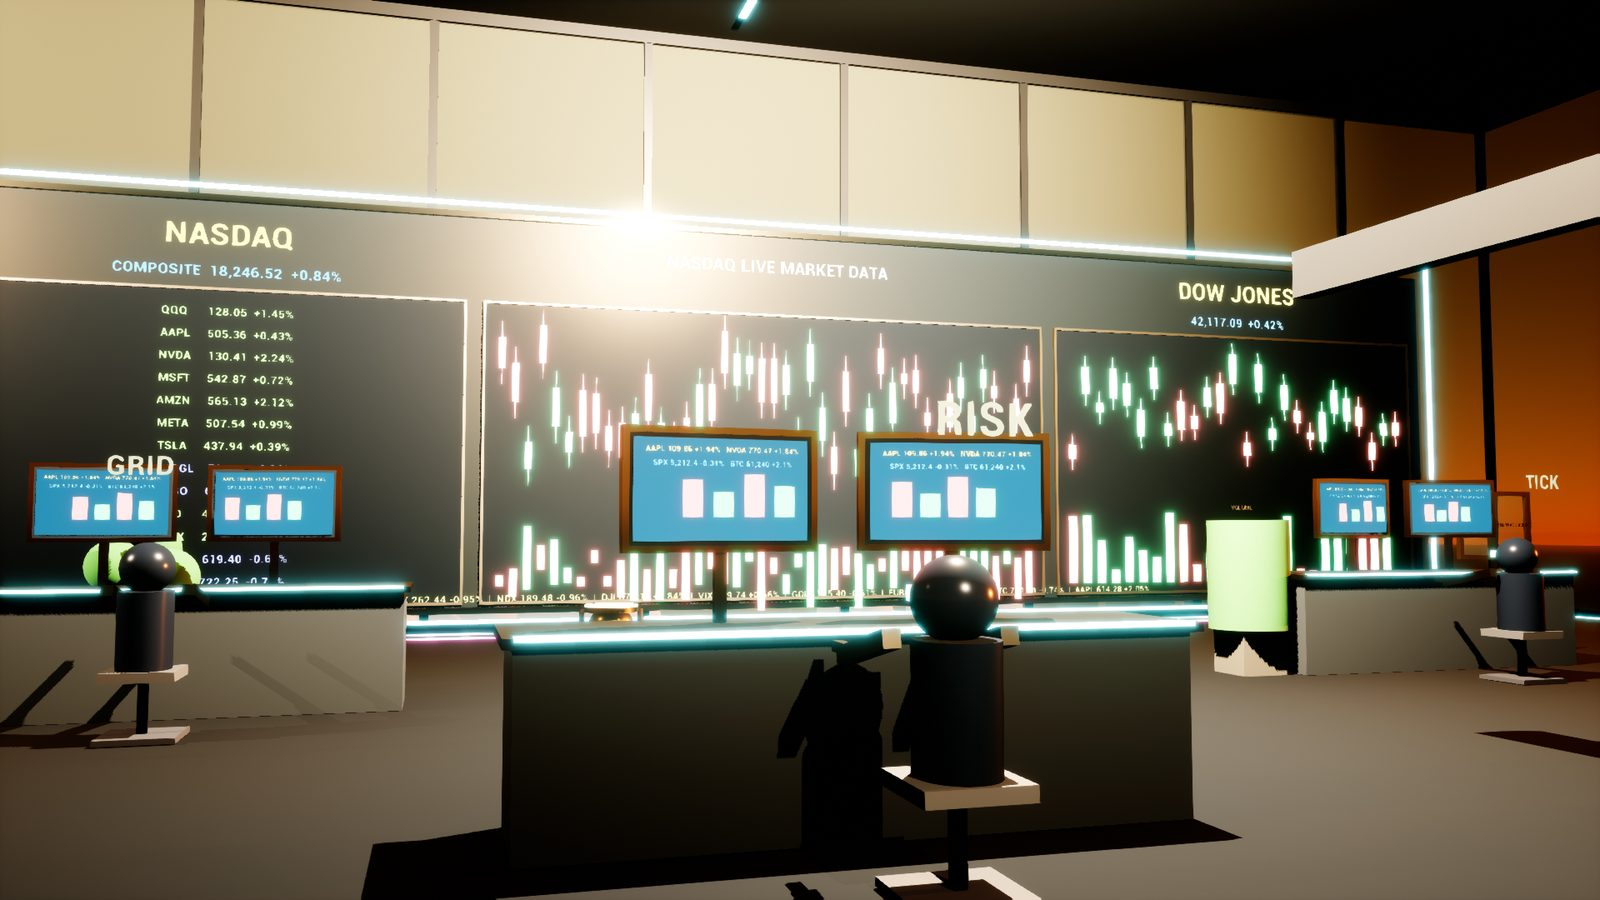
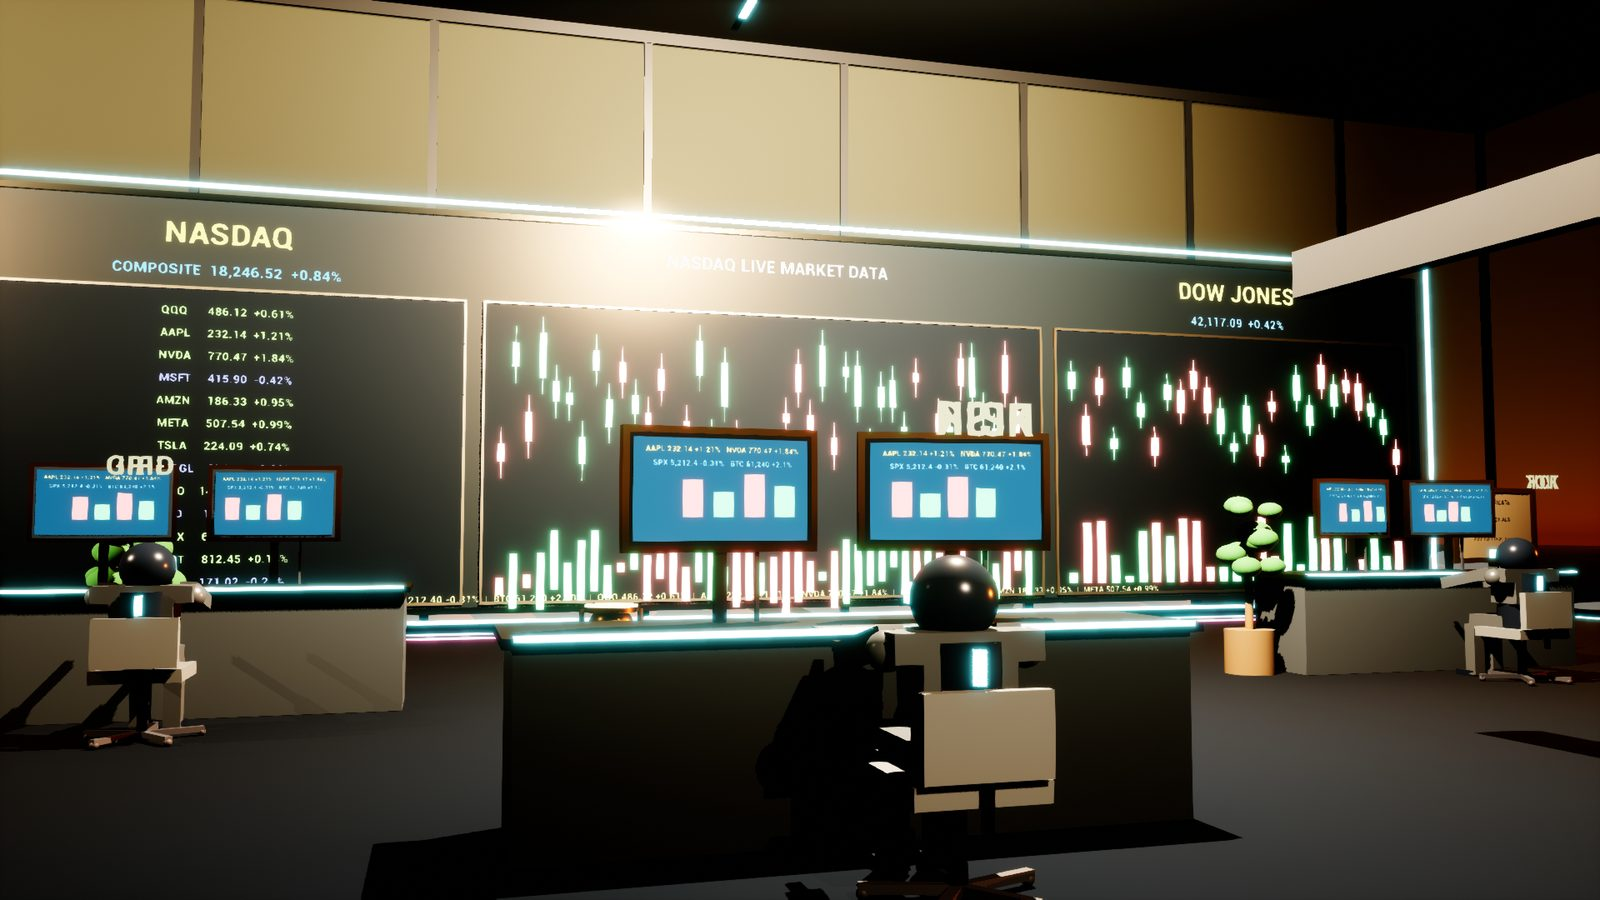
world: Unreal gallery carries the pass 26 set (eight stills)
Replaces the five pass 19 stills with eight pass 26 renders, approved in
full by Luxor's inspection ("eight pass, replace approved in full"): wide,
trading wall, crew, sign, sign close-up, deck, desk screen, corner. Label
updated to "pass 26, build in progress"; the honesty line is unchanged.

Captions claim only what the stills show: "market candles", not "live"
(a still cannot prove the data is live), and no claim about the crew's
faces (the crew still is from behind).

diff --git a/world/index.html b/world/index.html
@@ -120,8 +120,8 @@
         width:auto; height:auto; max-width:88vw; max-height:72vh; }
       #mapClose{ margin-top:10px; appearance:none; cursor:pointer; border:1px solid rgba(255,201,77,.55); border-radius:999px;
         background:rgba(8,16,34,.85); color:#ffd97a; font-size:12px; font-weight:800; letter-spacing:.1em; padding:9px 20px; }
-      /* Unreal Engine gallery (2026-10-20): renders of the PC build, opened from the entry card. Inspected and passed
-         by Luxor; stills 4 (85mm sign) and 5 (deck) held until their rework lands. */
+      /* Unreal Engine gallery (2026-10-20): renders of the PC build, opened from the entry card. The pass 26 set
+         (eight stills) was inspected and passed by Luxor; it replaced the pass 19 set. */
       #ueBtn{ margin:12px auto 0; display:block; appearance:none; cursor:pointer; border:1px solid rgba(255,201,77,.55);
         border-radius:999px; background:rgba(8,16,34,.85); color:#ffd97a; font-size:12px; font-weight:800;
         letter-spacing:.1em; padding:9px 20px; }
@@ -228,19 +228,25 @@
     <div id="ueGallery" role="dialog" aria-modal="true" aria-label="Sky Office in Unreal Engine gallery">
       <div class="ueWrap">
         <button id="ueClose" type="button">✕ CLOSE</button>
-        <h2>SKY OFFICE IN <span>UNREAL ENGINE</span> — PASS 19, BUILD IN PROGRESS</h2>
+        <h2>SKY OFFICE IN <span>UNREAL ENGINE</span> — PASS 26, BUILD IN PROGRESS</h2>
         <p class="ueNote">Renders of the PC build in Unreal Engine 5.8, made on 2026-10-20. The office you walk in on
           this page is still the web build. These stills show where the Sky Office is headed, and the build is not finished.</p>
-        <figure><img src="unreal/01-wide.jpg" alt="Wide view of the west trading wall with NASDAQ boards, candles and robots at desks" loading="lazy" width="1600" height="900" />
-          <figcaption>Wide: the west trading wall and robots at their desks.</figcaption></figure>
-        <figure><img src="unreal/02-trading-wall.jpg" alt="East trading wall with NASDAQ, NASDAQ live market data candles and Dow Jones panels" loading="lazy" width="1600" height="900" />
-          <figcaption>Trading wall: NASDAQ, live market candles and Dow Jones.</figcaption></figure>
-        <figure><img src="unreal/03-finale-sign.jpg" alt="Pink SKY OFFICE 128TH FLOOR sign with neon border" loading="lazy" width="1600" height="900" />
+        <figure><img src="unreal/01-wide.jpg" alt="Wide view of the west trading wall with NASDAQ boards and candles, a robot seated at its desk, a certificate, plants and a gold cup" loading="lazy" width="1600" height="900" />
+          <figcaption>Wide: the west trading wall, a robot at its desk, a certificate, plants and a gold cup.</figcaption></figure>
+        <figure><img src="unreal/02-trading-wall.jpg" alt="East trading wall with NASDAQ, market data candles and Dow Jones panels" loading="lazy" width="1600" height="900" />
+          <figcaption>Trading wall: NASDAQ, market candles and Dow Jones.</figcaption></figure>
+        <figure><img src="unreal/03-crew.jpg" alt="A row of robots seated in office chairs at desks with lit ticker screens, seen from behind" loading="lazy" width="1600" height="900" />
+          <figcaption>The crew row, seated at their screens.</figcaption></figure>
+        <figure><img src="unreal/04-sign.jpg" alt="Pink neon SKY OFFICE 128TH FLOOR sign on a black field" loading="lazy" width="1600" height="900" />
           <figcaption>The sign: SKY OFFICE, 128th floor.</figcaption></figure>
-        <figure><img src="unreal/04-desk-screen.jpg" alt="Close view of a desk monitor with ticker lines and chart bars" loading="lazy" width="1600" height="900" />
+        <figure><img src="unreal/05-sign-close.jpg" alt="Close view of the neon SKY OFFICE 128TH FLOOR sign" loading="lazy" width="1600" height="900" />
+          <figcaption>The sign up close.</figcaption></figure>
+        <figure><img src="unreal/06-deck.jpg" alt="View through the glass at sunset, the floor edge with a cyan strip above a sea of clouds and city towers below" loading="lazy" width="1600" height="900" />
+          <figcaption>From the glass: the floor edge above the clouds at sunset.</figcaption></figure>
+        <figure><img src="unreal/07-desk-screen.jpg" alt="Close view of a desk monitor with ticker lines and chart bars" loading="lazy" width="1600" height="900" />
           <figcaption>A desk screen up close.</figcaption></figure>
-        <figure><img src="unreal/05-overview.jpg" alt="Overview through the glass at sunset with clouds below the floor" loading="lazy" width="1600" height="900" />
-          <figcaption>Overview: sunset through the glass, clouds below the floor.</figcaption></figure>
+        <figure><img src="unreal/08-corner.jpg" alt="A corner of the office at sunset with desks along the glass" loading="lazy" width="1600" height="900" />
+          <figcaption>A corner of the floor at sunset.</figcaption></figure>
       </div>
     </div>
     <script>
